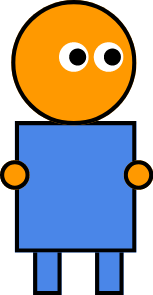
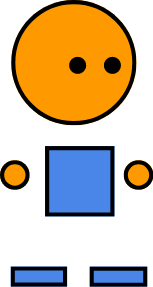
new player graphics

diff --git a/lib/game/player/player_component.dart b/lib/game/player/player_component.dart
@@ -9,7 +9,7 @@ class PlayerGear extends SpriteComponent
   PlayerGear({
     required this.slot,
     required this.item,
-  });
+  }) : super(priority: slot == GearSlot.head ? 4 : 5);
 
   final GearSlot slot;
   final GameItem item;
@@ -40,7 +40,7 @@ class PlayerGear extends SpriteComponent
   }
 }
 
-class Player extends SpriteComponent
+class Player extends SpriteAnimationGroupComponent<bool>
     with
         KeyboardHandler,
         HasGameRef<VeryGoodAdventuresGame>,
@@ -62,12 +62,37 @@ class Player extends SpriteComponent
 
     anchor = Anchor.center;
 
-    sprite = await gameRef.loadSprite('player.png');
+    final idleFrame = await gameRef.loadSprite('player.png');
+
+    final runningFrames = await Future.wait([
+      gameRef.loadSprite('player_2.png'),
+      gameRef.loadSprite('player_3.png'),
+      gameRef.loadSprite('player_4.png'),
+    ]);
+
+    final idle = SpriteAnimation([SpriteAnimationFrame(idleFrame, 0)]);
+
+    final running = SpriteAnimation(
+      runningFrames
+          .map(
+            (sprite) => SpriteAnimationFrame(sprite, 0.2),
+          )
+          .toList(),
+    );
+
+    animations = {
+      true: running,
+      false: idle,
+    };
+
+    current = false;
   }
 
   @override
   void update(double dt) {
     super.update(dt);
+
+    current = direction.length != 0;
 
     final newPosition = position + direction * speed * dt;
 
